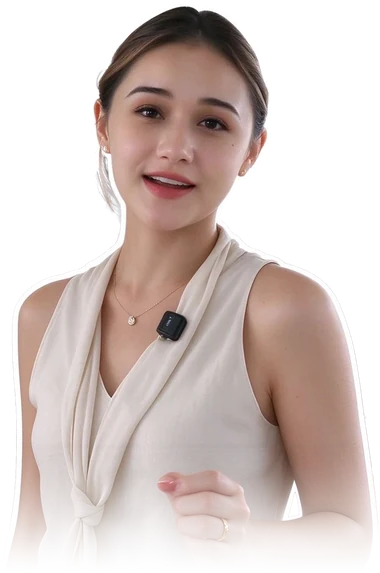
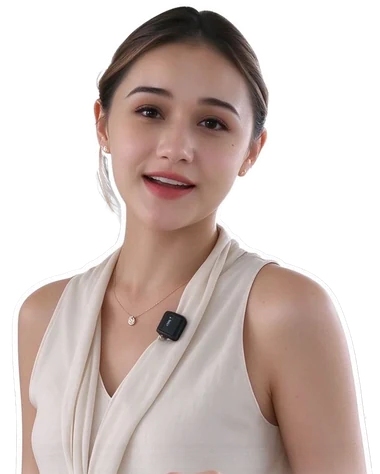
人像改回实心（裁剪透明渐隐区），仅手机小像保留极轻淡出

diff --git a/index.html b/index.html
@@ -1156,9 +1156,7 @@
 .hero-person-glow{position:absolute;right:-60px;bottom:-20px;width:330px;height:330px;border-radius:50%;
   background:radial-gradient(circle,rgba(215,168,79,.30),rgba(215,168,79,0) 68%);pointer-events:none;z-index:1;}
 .hero-person-photo{position:relative;z-index:2;width:min(318px,100%);margin-left:auto;}
-.hero-person-photo img{display:block;width:100%;height:auto;filter:drop-shadow(0 24px 44px rgba(0,0,0,.45));
-  -webkit-mask-image:linear-gradient(to bottom,#000 72%,rgba(0,0,0,0) 88%);
-  mask-image:linear-gradient(to bottom,#000 72%,rgba(0,0,0,0) 88%);}
+.hero-person-photo img{display:block;width:100%;height:auto;filter:drop-shadow(0 24px 44px rgba(0,0,0,.45));}
 .hero-person-card{position:relative;z-index:3;margin-top:-84px;padding:20px 22px 22px;border-radius:16px;
   border:1px solid rgba(255,255,255,.07);
   background:linear-gradient(155deg,rgba(6,22,42,.7) 0%,rgba(7,31,59,.9) 58%,rgba(6,22,42,.95) 100%);
@@ -1260,9 +1258,7 @@
   .hero-proof{grid-column:1;grid-row:3;width:min(780px,100%);margin-top:20px;}
   .hero-person-glow{display:none;}
   .hero-person-photo{display:block;width:188px;margin-left:auto;margin-right:6px;}
-  .hero-person-photo img{filter:drop-shadow(0 14px 30px rgba(0,0,0,.42));
-    -webkit-mask-image:linear-gradient(to bottom,#000 76%,rgba(0,0,0,0) 98%);
-    mask-image:linear-gradient(to bottom,#000 76%,rgba(0,0,0,0) 98%);}
+  .hero-person-photo img{filter:drop-shadow(0 14px 30px rgba(0,0,0,.42));}
   .hero-person-card{margin-top:-60px;padding:20px;}
   .hero-person-card::after{display:none;}
   .hp-avatar{display:none;}
@@ -1287,8 +1283,8 @@
   .cat-more{padding:22px 20px;}
   .cat-more .btn{width:100%;}
   .hero-person-photo{position:absolute;width:104px;bottom:10px;right:8px;margin:0;z-index:4;}
-  .hero-person-photo img{-webkit-mask-image:linear-gradient(to bottom,#000 64%,rgba(0,0,0,0) 92%);
-    mask-image:linear-gradient(to bottom,#000 64%,rgba(0,0,0,0) 92%);}
+  .hero-person-photo img{-webkit-mask-image:linear-gradient(to bottom,#000 90%,rgba(0,0,0,0) 100%);
+    mask-image:linear-gradient(to bottom,#000 90%,rgba(0,0,0,0) 100%);}
   .hero-person-card{margin-top:18px;padding:16px 122px 16px 16px;min-height:184px;}
   .hp-kicker{font-size:9px;letter-spacing:1.5px;gap:6px;}
   .hp-kicker::before{width:12px;}
